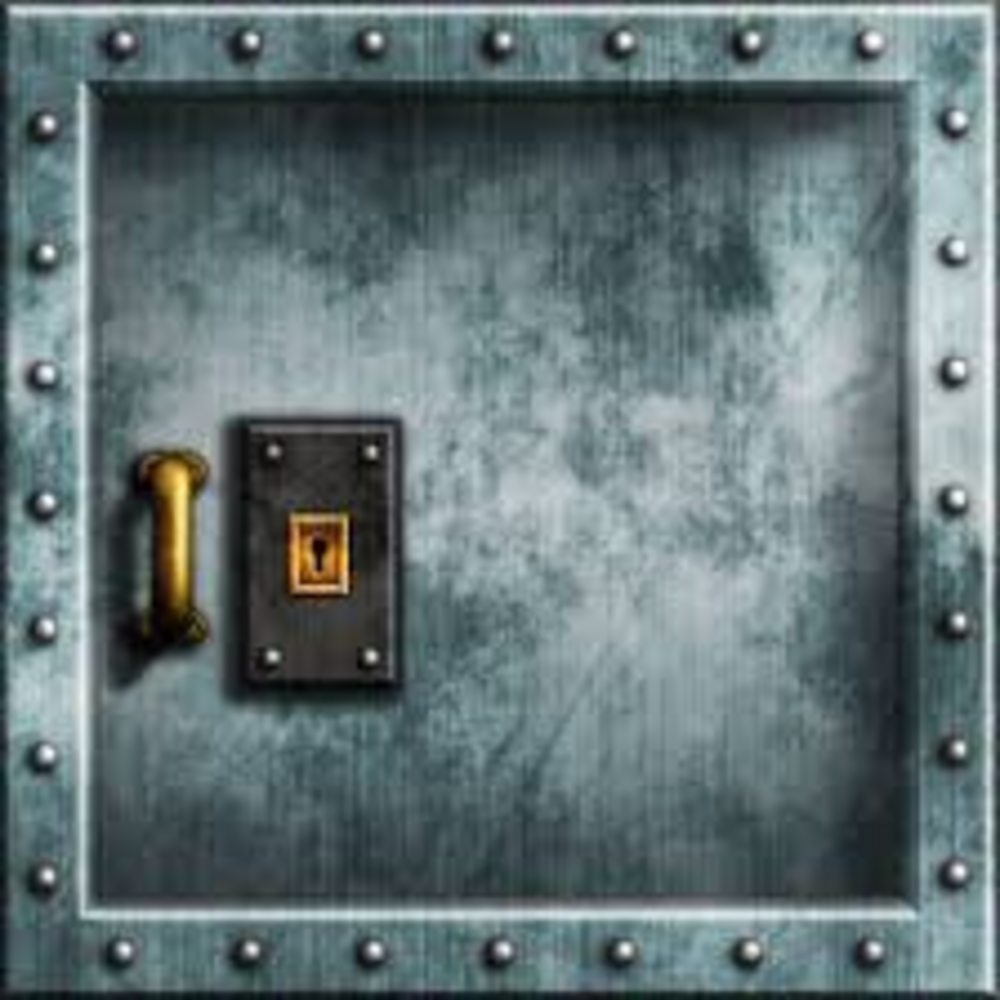
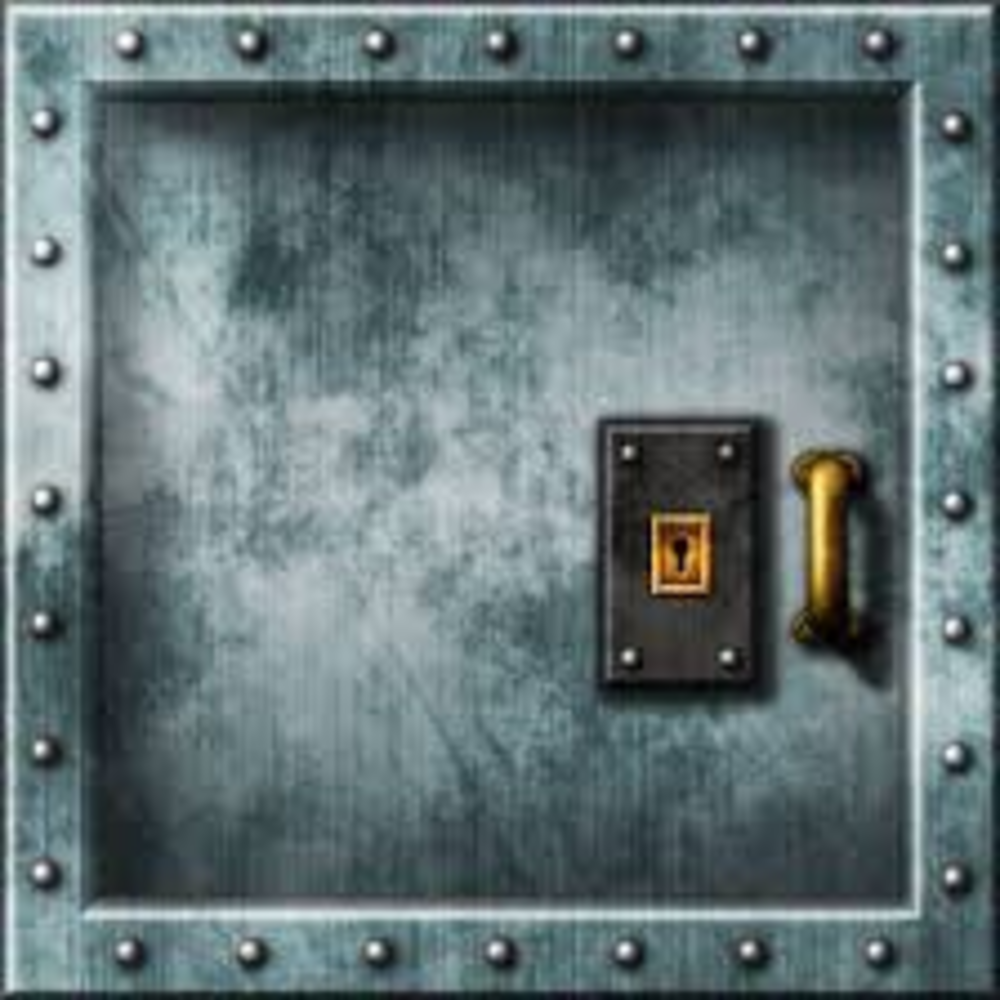
flop the door texture

diff --git a/pseudo_3d.c b/pseudo_3d.c
@@ -566,10 +566,10 @@ int main(void)
                 SDL_SetTextureAlphaMod(door_texture, color);
                 //SDL_SetTextureColorMod(door_texture, color, color, color);
                 if (side == 1) {
-                    texture_rect.x = (int)((rxh - (int)rxh - door_extencion[door_indexH]) * 1000);
+                    texture_rect.x = (int)((1 - rxh + (int)rxh + door_extencion[door_indexH]) * 1000);
                 }
                 else {
-                    texture_rect.x = (int)((ryh - (int)ryh - door_extencion[door_indexH]) * 1000);
+                    texture_rect.x = (int)((1 - ryh + (int)ryh + door_extencion[door_indexH]) * 1000);
                 }
             }
             texture_rect.y = 0;
